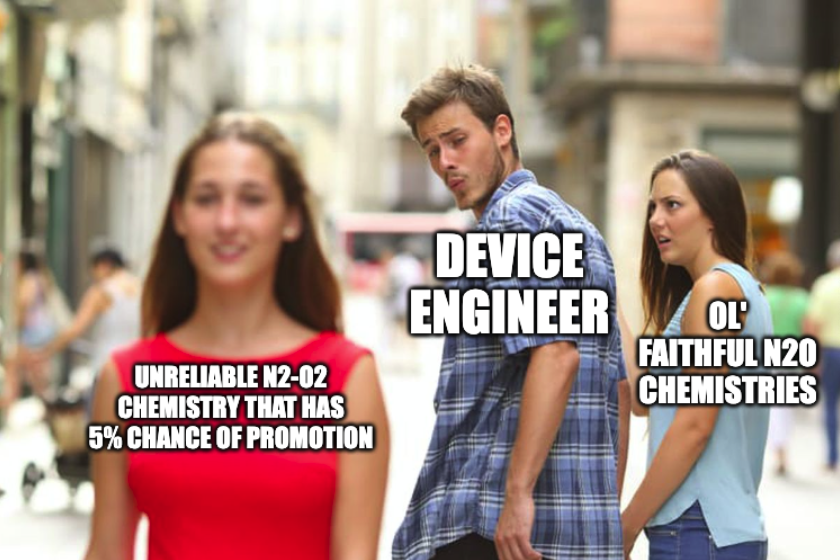
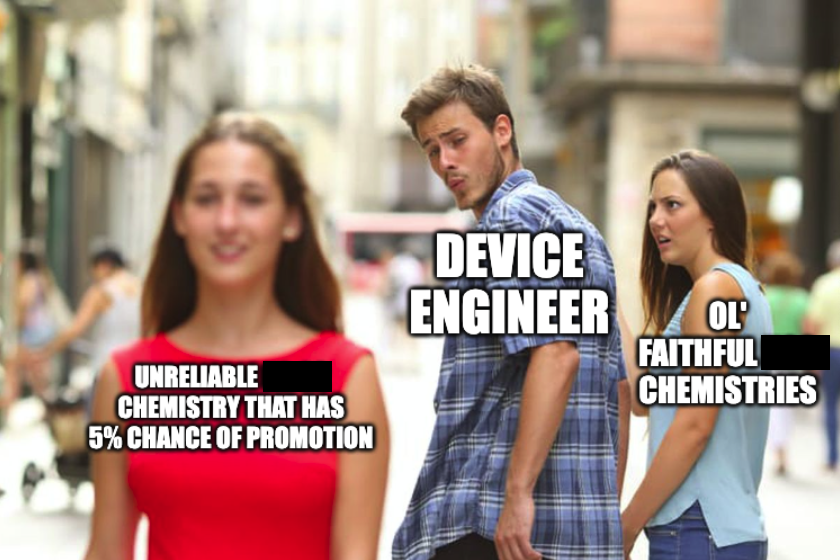
a

Changed region(s): [[0.8976, 0.5768, 0.9905, 0.6679], [0.3095, 0.6375, 0.4024, 0.6982]]

diff --git a/research/fabs.html b/research/fabs.html
@@ -10,24 +10,29 @@
 
 <body>
 
-<!--
-
-- add in more pictures
-- add in more links
-- finish all the [FINISH] sections
-- add summary section
-
--->
-
 <h3 id="home"><a href="../index.html">Home</a></h3>
 
 <h1 id="fab">Semiconductor Fabs I: The Equipment</h1>
 
 <p>
-  An in-depth look at semiconductor processing equipment.
+  In-depth look at semiconductor chip processing equipment.
 </p>
 
 <hr>
+
+<!--
+
+<h2 id="series">Semiconductor Fab Series</h2>
+
+<p>
+  <a href="fabs">Semiconductor Fabs I: The Equipment</a>
+</p>
+
+<p>
+  <a href="fabs">Semiconductor Fabs II: The Operations</a>
+</p>
+
+-->
 
 <h2 id="contents">Contents</h2>
 
@@ -184,7 +189,7 @@
 </figcaption>
 
 <p>
-  Jokes aside, there is some amount of direction from the head honchos on balancing out cost considerations with device performance depending on the size of the company's coffers, the (potential) demand of the product, and the raw expected value of the proposed flow. Does the flow really need that one step that requires a brand new one-of-a-kind (OAK) tool in the fab, or can they figure out another way to achieve the same results? Do they really need to use the oh-so-expensive, but incredibly reliable and proven, nitrous oxide (N<sub>2</sub>O) as a primary gas when growing gate oxides, or can they find a way to make an N<sub>2</sub>-O<sub>2</sub> chemistry work, despite the literature saying it is worse in almost all ways? Do they really need all that helium to help cool the wafer faster, or can they make do with N<sub>2</sub>? The tradeoffs are infinite.
+  Jokes aside, there is some amount of direction from the head honchos on balancing out cost considerations with device performance depending on the size of the company's coffers, the (potential) demand of the product, and the raw expected value of the proposed flow. Does the flow really need that one step that requires a brand new one-of-a-kind (OAK) tool in the fab, or can they figure out another way to achieve the same results? Do they really need to use the oh-so-expensive, but incredibly reliable and proven, [redacted chemistry] when doing [process] or can they find a way to make an [redacted chemistry] work, despite the literature saying it is worse in almost all ways? Do they really need all that helium to help cool the wafer faster, or can they make do with N<sub>2</sub>? The tradeoffs are infinite.
 </p>
 
 <img src="media/fabs/chemistries.png">
@@ -258,6 +263,11 @@
     Similarity: How similar is the tool to the rest of the fleet it will be added to? There is a delicate balance of wanting to ensure wafers are processed as identically as possible and getting newer revisions of the same platform to improve important fab metrics. Intel's <a href="media/fabs/intelcopyexactly.pdf#page=11">Copy EXACTLY!</a> method takes this to an extreme, but not uncalled for, level. (To show how important identicality is to some fabs, I've heard of companies being asked by OEMs if they'd sell back a now-obsolete part for a massive markup in order for the OEM to facilitate making a tool that matched another customer's already-existing fleet.)
   </li>
 </ul>
+
+<img src="media/fabs/copyexactly.jpg">
+<figcaption>
+  What about "<u>Exactly!</u>" did you not understand?
+</figcaption>
 
 <h3 id="purchasing">Purchasing</h3>
 
@@ -556,7 +566,7 @@
 <h4 id="buffer">Buffer</h4>
 
 <p>
-  The buffer serves as the common connection point between the process chambers. There is a robot that has two axes:
+  The buffer serves as the common connection point between the process chambers. There is a robot (seen working in the thumbnail of the <a href="#radiance">Radiance</a> section's initial YouTube video) that has two axes:
 </p>
 
 <ul>
@@ -628,7 +638,7 @@
 </p>
 
 <p>
-  Gases vary by the film, but often include N<sub>2</sub>O, H<sub>2</sub>, O<sub>2</sub>, N<sub>2</sub>, or some combination thereof. They are fed in through the <a href="#gaspanel">gas panel</a> and get all nice and mixed together before entering one side of the chamber in a spray-like pattern that's pretty darn close to the width of the wafer. The gases are then "sucked" across the surface of the wafer by the vacuum pump port opposite the gas injection port. It's this combination—a pristine, freshly-cleaned wafer surface, the right ratio of 99.9999%-pure gases, an insane heat that rivals that of hell itself, the low pressure—that generates steam which in turn grows an oxide on the wafer surface. And you'd think that it wouldn't be <i>that</i> uniform right? That we couldn't get nanometer precision with such a barbaric process of heat plus gas plus vacuum? Well you'd be wrong. These bad boys are able to hit a range (maximum oxide thickness minus minimum oxide thickness) of only a few nanometres  wafer-over-wafer, year-over-year with minimal maintenance. Talk about repeatability!
+  Gases vary by the film, but often include H<sub>2</sub>, O<sub>2</sub>, N<sub>2</sub>, or some combination thereof. They are fed in through the <a href="#gaspanel">gas panel</a> and get all nice and mixed together before entering one side of the chamber in a spray-like pattern that's pretty darn close to the width of the wafer. The gases are then "sucked" across the surface of the wafer by the vacuum pump port opposite the gas injection port. It's this combination—a pristine, freshly-cleaned wafer surface, the right ratio of 99.9999%-pure gases, an insane heat that rivals that of hell itself, the low pressure—that generates steam which in turn grows an oxide on the wafer surface. And you'd think that it wouldn't be <i>that</i> uniform right? That we couldn't get nanometer precision with such a barbaric process of heat plus gas plus vacuum? Well you'd be wrong. These bad boys are able to hit a range (maximum oxide thickness minus minimum oxide thickness) of only a few nanometres  wafer-over-wafer, year-over-year with minimal maintenance. Talk about repeatability!
 </p>
 
 <img src="media/fabs/gasinjection.png">
@@ -639,6 +649,16 @@
 <p>
   The pressure is controlled by two main components: a vacuum pump and a throttle valve (TV). The pump is on all the time, blindly pumping away at whatever is thrown in its path. The TV adjusts its angle based on the pressure setpoint alone and a simple PID controller built in to the chamber controller. A 100%-open TV means the pressure setpoint is way lower than the actual pressure so it needs to pump quickly, while a 0%-open TV means the setpoint is way higher than actual so it needs to fill up with gas, or vent, quickly.
 </p>
+
+<p>
+  See also:
+</p>
+
+<ul>
+  <li>
+    <a href="https://sci-hub.ru/10.1109/RTP.2001.1013750">Exploring ISSG Process Space</a>
+  </li>
+</ul>
 
 <h3 id="dpn">DPN</h3>
 

diff --git a/index.html b/index.html
@@ -360,6 +360,9 @@
 
 <ul>
   <li>
+    <b><a href="research/fabs.html">Semiconductor Fabs I: The Equipment</a>: In-depth look at semiconductor processing equipment</b>
+  </li>
+  <li>
     <b><a href="research/living.html">Where to Live for Happiness</a>: Literature and personal considerations related to housing</b>
   </li>
   <li>

diff --git a/research/media/fabs/fabsradiance.html b/research/media/fabs/fabsradiance.html
@@ -306,7 +306,7 @@
         const difficultySettings = {
             easy: { lamps: 1, time: 60 },
             medium: { lamps: 3, time: 90 },
-            hard: { lamps: 5, time: 120 }
+            hard: { lamps: 5, time: 180 }
         };
         
         class Lamp {

diff --git a/about/changelog.html b/about/changelog.html
@@ -17,6 +17,16 @@
 
 <hr>
 
+<h2 id="june_2025">June 2025</h2>
+
+<ul>
+  <li>
+    <a href="../research/fabs.html">Semiconductor Fabs I: The Equipment</a> (03 June 2025)
+  </li>
+</ul>
+
+<hr>
+
 <h2 id="may_2025">May 2025</h2>
 
 <ul>

diff --git a/knowledge/links.html b/knowledge/links.html
@@ -140,6 +140,12 @@
 
 <hr>
 
+<h2 id="june_2025">June 2025</h2>
+
+
+
+<hr>
+
 <h2 id="may_2025">May 2025</h2>
 
 <ul>

diff --git a/training/traininglinks.html b/training/traininglinks.html
@@ -75,6 +75,10 @@
 
 <hr>
 
+<h2 id="june_2025">june 2025</h2>
+
+<hr>
+
 <h2 id="may_2025">May 2025</h2>
 
 <hr>
